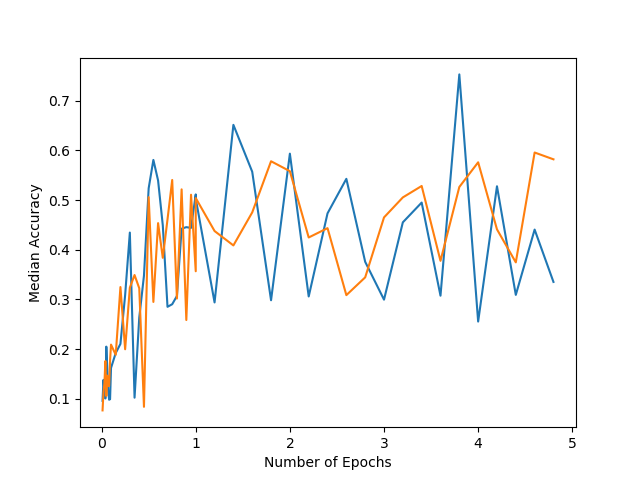
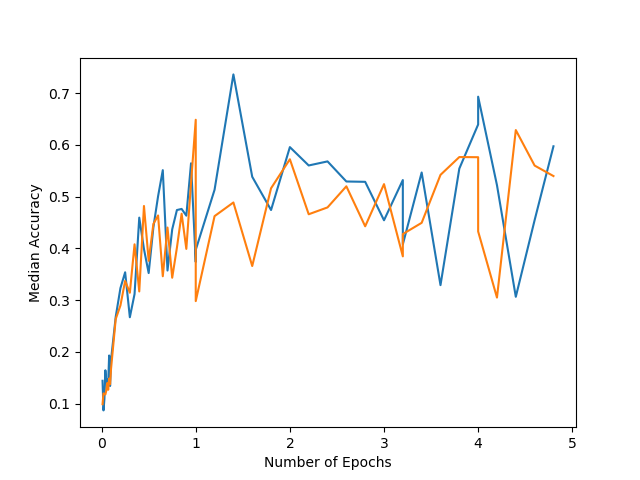
tune

diff --git a/hyperparameters.py b/hyperparameters.py
@@ -9,7 +9,7 @@ fixed_parameters = {'meta_input': 3,
 hyperparameters = {'mid1': 200,
                    'mid2': 200,
                    'meta_mid': 50,
-                   'learning_rate': 0.005,
+                   'learning_rate': 0.01,
                    'learner_batch_size': 50,
                    'update_rate': 0.001}
 dataset_name = 'MNIST'

diff --git a/experiment_1_epochs/tune.py b/experiment_1_epochs/tune.py
@@ -1,0 +1,7 @@
+from experiment_0_util.run_experiment import *
+
+print("begin architecture")
+for phi in range(10):
+    print(phi)
+    control_acc = control_frame.train_model(theta=1, phi=phi)
+    print(control_acc)
